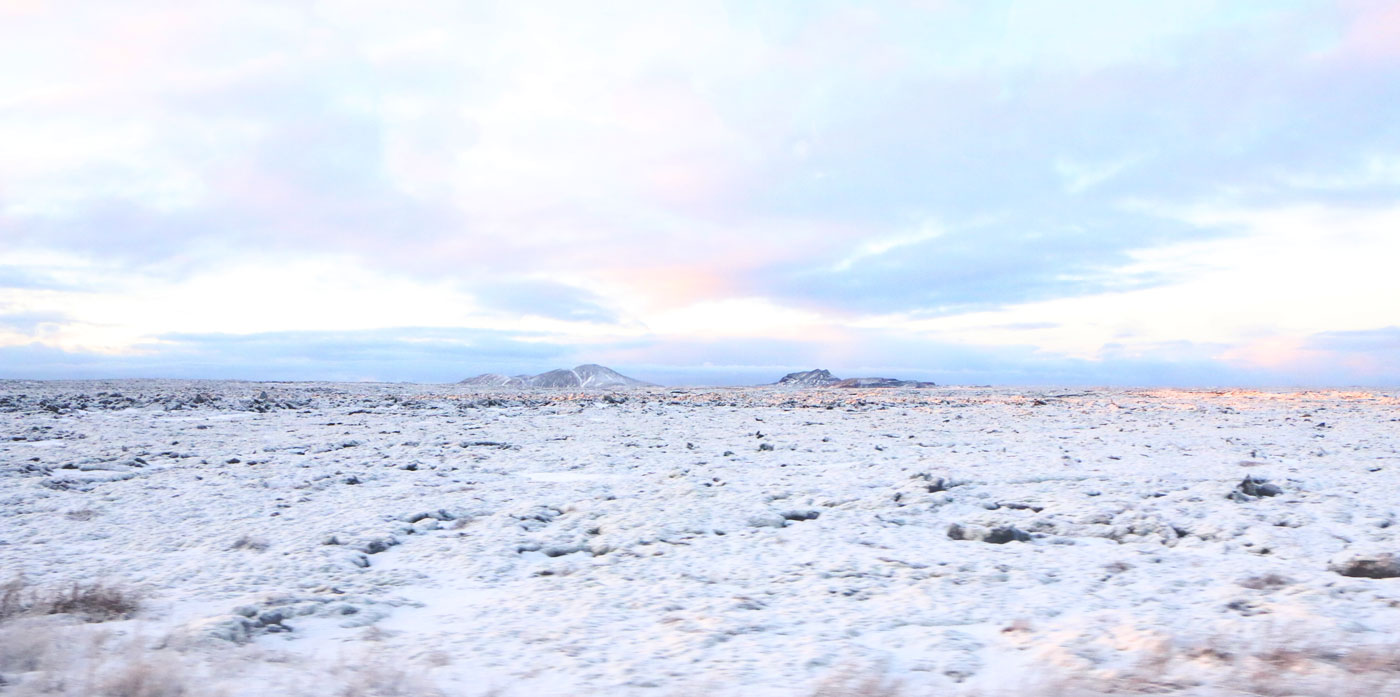
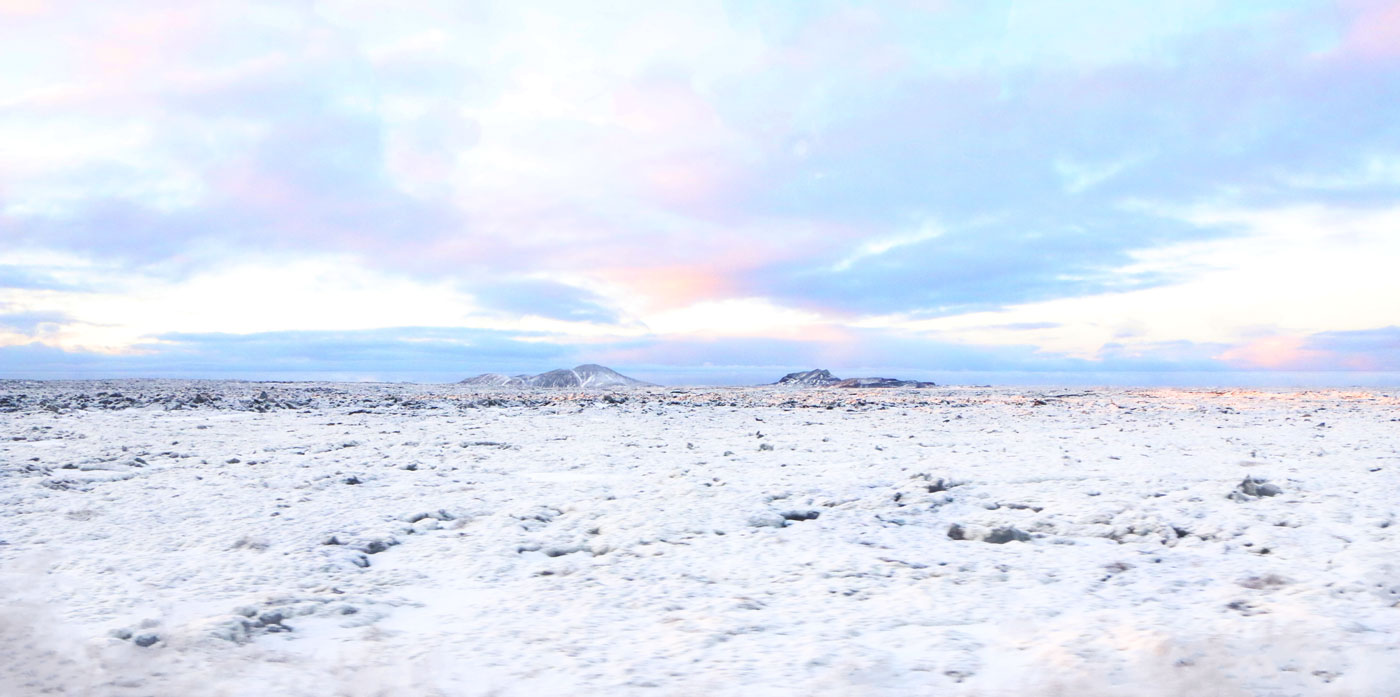
new w50

diff --git a/_includes/css/layout.css b/_includes/css/layout.css
@@ -136,4 +136,5 @@
 }
 
 .w80 {width:80%;}
+.w50 {width:50%;}
 .w100 {width:100% !important;}

diff --git a/_posts/2015-12-9-iceland.md b/_posts/2015-12-9-iceland.md
@@ -67,7 +67,7 @@ tags: [github, github-pages, jekyll]
 			 			The record snowfall had been shoved off the streets into 12 foot tall blobs left at the side like a dolls house of the mountain landscape surrounding the city.
 			 	</p> 	
 			 	<img class="smallGapBott" src="http://niquewoodhouse.github.io/jekyll-blog/assets/iceland/IMG_3316.jpg"/>
-			 	<img class="smallGapBott" src="http://niquewoodhouse.github.io/jekyll-blog/assets/iceland/IMG_3306b.jpg"/>
+			 	<img class="smallGapBott" src="http://niquewoodhouse.github.io/jekyll-blog/assets/iceland/IMG_3306.jpg"/>
 			 	<img class="smallGapBott" src="http://niquewoodhouse.github.io/jekyll-blog/assets/iceland/IMG_3926.jpg"/>
 				<p class="w80 mAuto">
 					Even with the heavy snow, everything runs smooth.  Heated pipes under the ground stop ice from forming on the roads.  And those roads are long. You can't help but take photos that are bad 90s emo album covers.  Its Iceland.
@@ -126,30 +126,23 @@ tags: [github, github-pages, jekyll]
 	 		</h2>
 	 	</div>
 
-		<div class="unit one-quarter">
-		</div>
-		<div class="unit half">
-			<p>
-	 			There was just enough time to get to the famous natural water spring.  
-	 			You can spot it miles away by the steam that rises from the land, like a fucking massive kettle contsantly boiling.
- 			</p>
-		</div>
-		<div class="unit one-quarter">
-		</div>		
+	
 	</div> 
 
 		 <div class="grid bigGapTop bigGapBott"> 
 
 
 				<div class="unit whole">		
-		 	
 
-			 		
-			 		<img src="http://niquewoodhouse.github.io/jekyll-blog/assets/iceland/IMG_3891.jpg"/>
+					<p class="w50 mAuto">
+			 			There was just enough time to get to the famous natural water spring.  
+			 			You can spot it miles away by the steam that rises from the land, like a fucking massive kettle contsantly boiling.
+		 			</p>					
+		 		
+			 		<img class="mediumGapBott" src="http://niquewoodhouse.github.io/jekyll-blog/assets/iceland/IMG_3891.jpg"/>
+					<img class="mediumGapBott" src="http://niquewoodhouse.github.io/jekyll-blog/assets/iceland/IMG_3826.jpg"/>
 
-
-
-					<p>
+					<p class="w80 mAuto">
 						Even with the heavy snow, everything runs smooth.  Heated pipes under the ground stop ice from forming on the roads.  And those roads are long.
 					</p>
 
